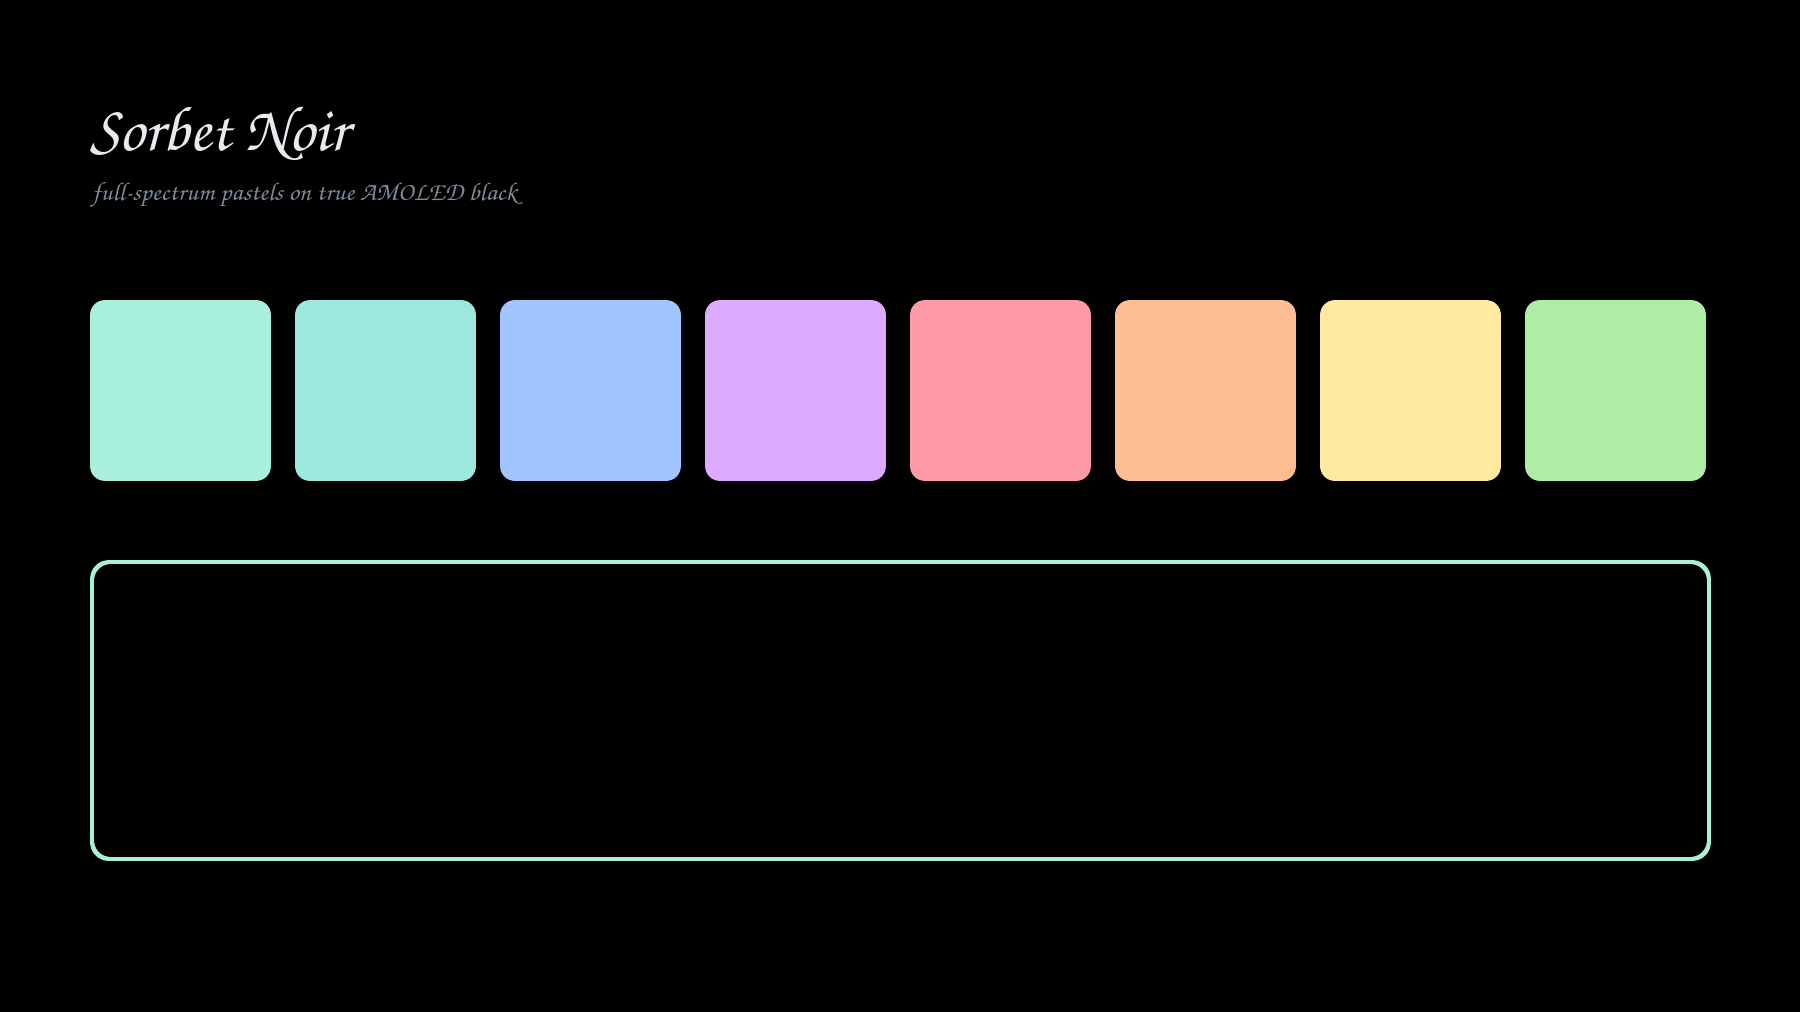
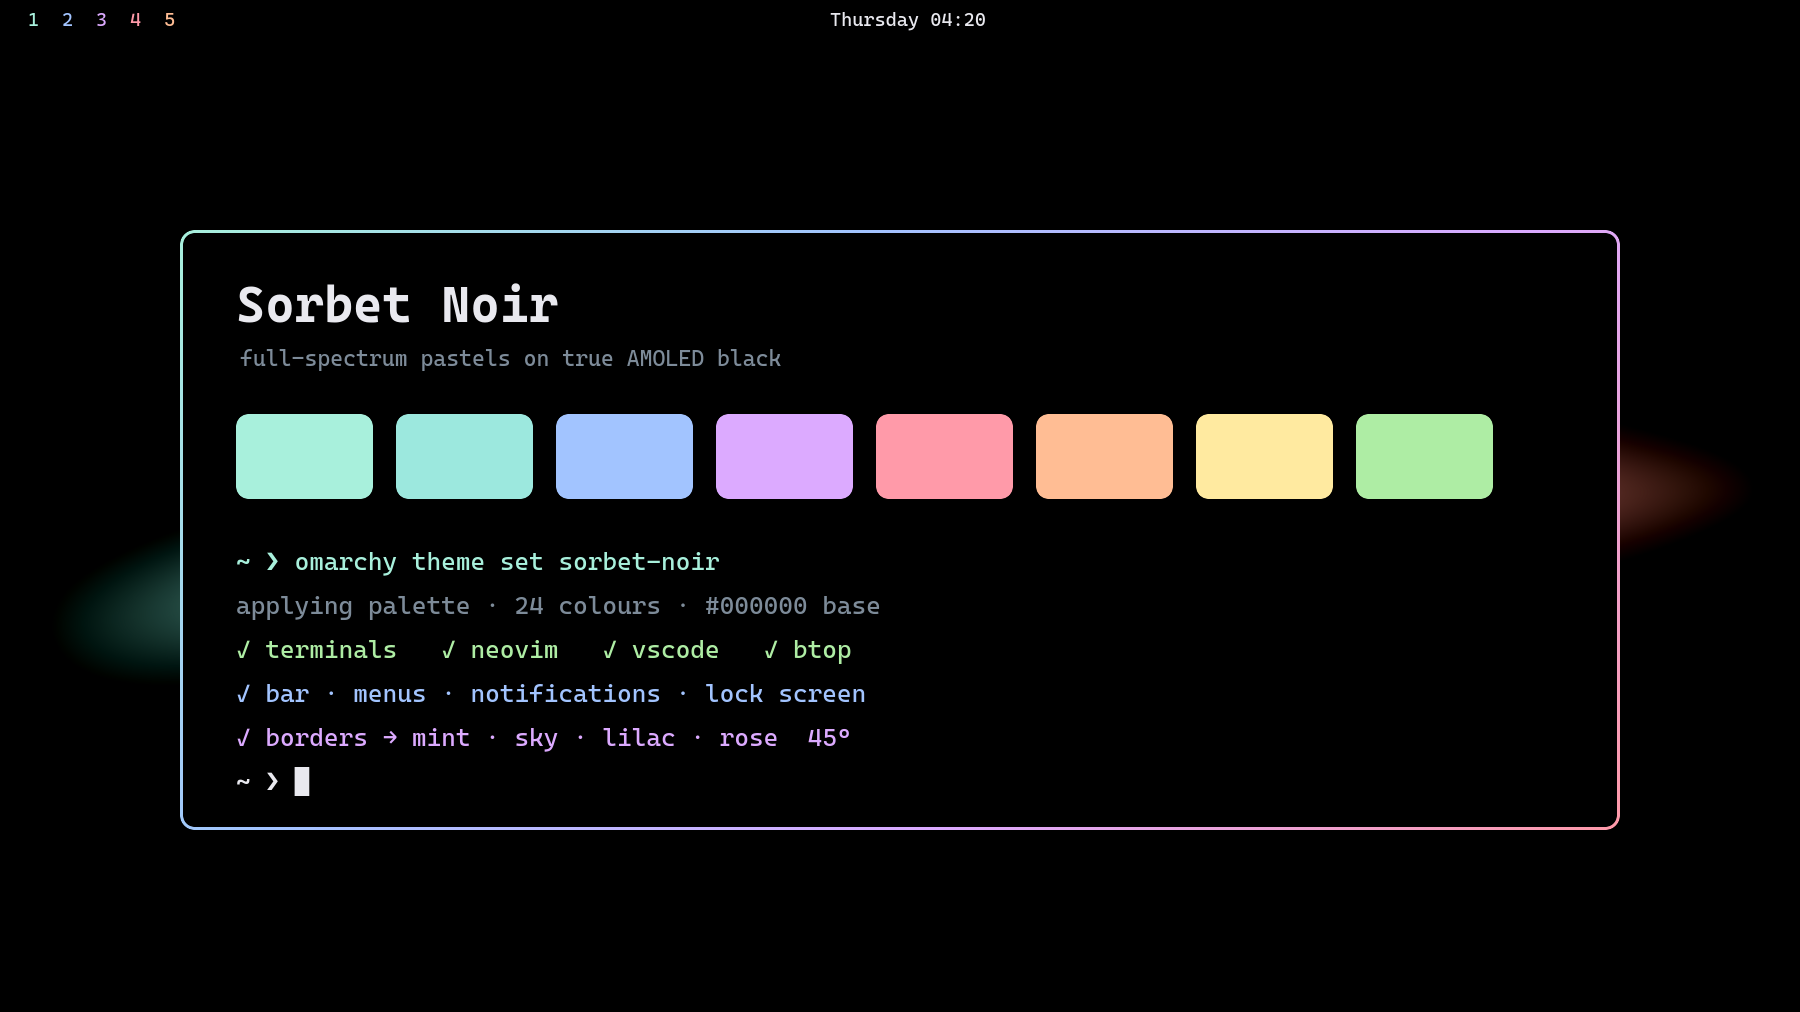
Add Plymouth unlock assets and a real preview
The theming manual lists unlock.png and preview-unlock.png among a theme's
optional files, and every stock theme ships both. Without unlock.png the
theme is absent from `omarchy plymouth list` and cannot style the boot or
unlock screen.

- unlock.png: the Omarchy wordmark recoloured to the mint accent, with the
  source alpha mask preserved pixel-for-pixel.
- preview-unlock.png: generated by `omarchy plymouth preview 000000 a8f0dc`.
- preview.png: replaced the plain palette card with a composed showcase —
  gradient-bordered card, palette swatches and pastel workspace indicators
  over the aurora background. Built synthetically rather than screenshotted,
  so it carries no session content.

README documents the menu install path (Install > Style > Theme) and the
plymouth commands.

diff --git a/README.md b/README.md
@@ -10,6 +10,10 @@ four-stop pastel ribbon (mint → sky → lilac → rose).
 
 ## Install
 
+From the menu: **Install → Style → Theme**, then paste this repository's URL.
+
+Or from a terminal:
+
 ```bash
 omarchy theme install https://github.com/isti2415/omarchy-sorbet-noir-theme
 omarchy theme set sorbet-noir
@@ -19,6 +23,12 @@ Pairs well with:
 
 ```bash
 omarchy font set "CaskaydiaMono Nerd Font"
+```
+
+Optionally style the boot and unlock screen to match:
+
+```bash
+omarchy plymouth set by theme sorbet-noir
 ```
 
 ## Palette
@@ -45,7 +55,10 @@ tone that reads fine on a `#1e1e2e` base becomes unreadable on true black.
 | `shell.toml` | bar, launcher, menus, notifications, tooltips, polkit, lock screen |
 | `icons.theme` | Yaru-sage-dark |
 | `keyboard.rgb` | mint, for supported RGB keyboards |
+| `unlock.png` | mint Omarchy wordmark for the Plymouth boot/unlock screen |
+| `preview-unlock.png` | preview of that unlock screen |
 | `backgrounds/` | four generated AMOLED backgrounds |
+| `preview.png` | marketplace/README preview |
 | `hyprland.lua` | mint bloom + groupbar tint — **see the caveat below** |
 
 Terminals (Alacritty, foot, kitty, Ghostty), Neovim, VS Code, btop, Chromium,
@@ -160,7 +173,21 @@ Cycle backgrounds with `omarchy theme bg next`.
 | solid border, no gradient | `colors.toml` — set `hyprland_active_border = "rgba(a8f0dcff)"` |
 | less see-through popups | `shell.toml` — `background-alpha`, `scrim-alpha` |
 
+## Boot & unlock screen
+
+`unlock.png` is the Omarchy wordmark tinted to the mint accent, which puts this
+theme in `omarchy plymouth list`:
+
+```bash
+omarchy plymouth set by theme sorbet-noir   # apply
+omarchy plymouth reset                      # back to the Omarchy default
+```
+
+![Unlock screen](preview-unlock.png)
+
 ## License
 
 MIT — see [LICENSE](LICENSE). Applies to the theme files and the four generated
-backgrounds. It does not extend to the Wallhaven wallpapers referenced above.
+backgrounds. It does not extend to the Wallhaven wallpapers referenced above,
+nor to the Omarchy wordmark in `unlock.png`, which belongs to the Omarchy
+project and is included per the theming manual's convention.
